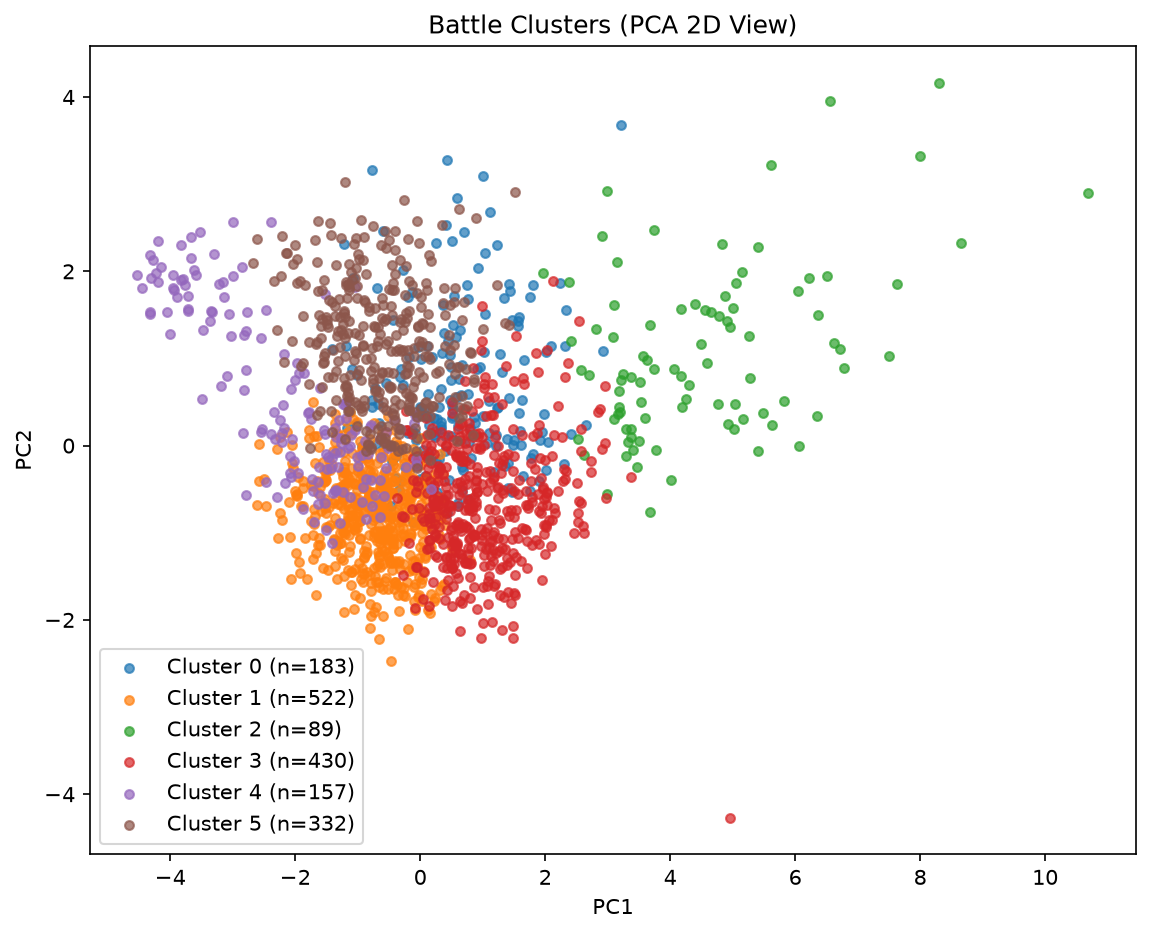
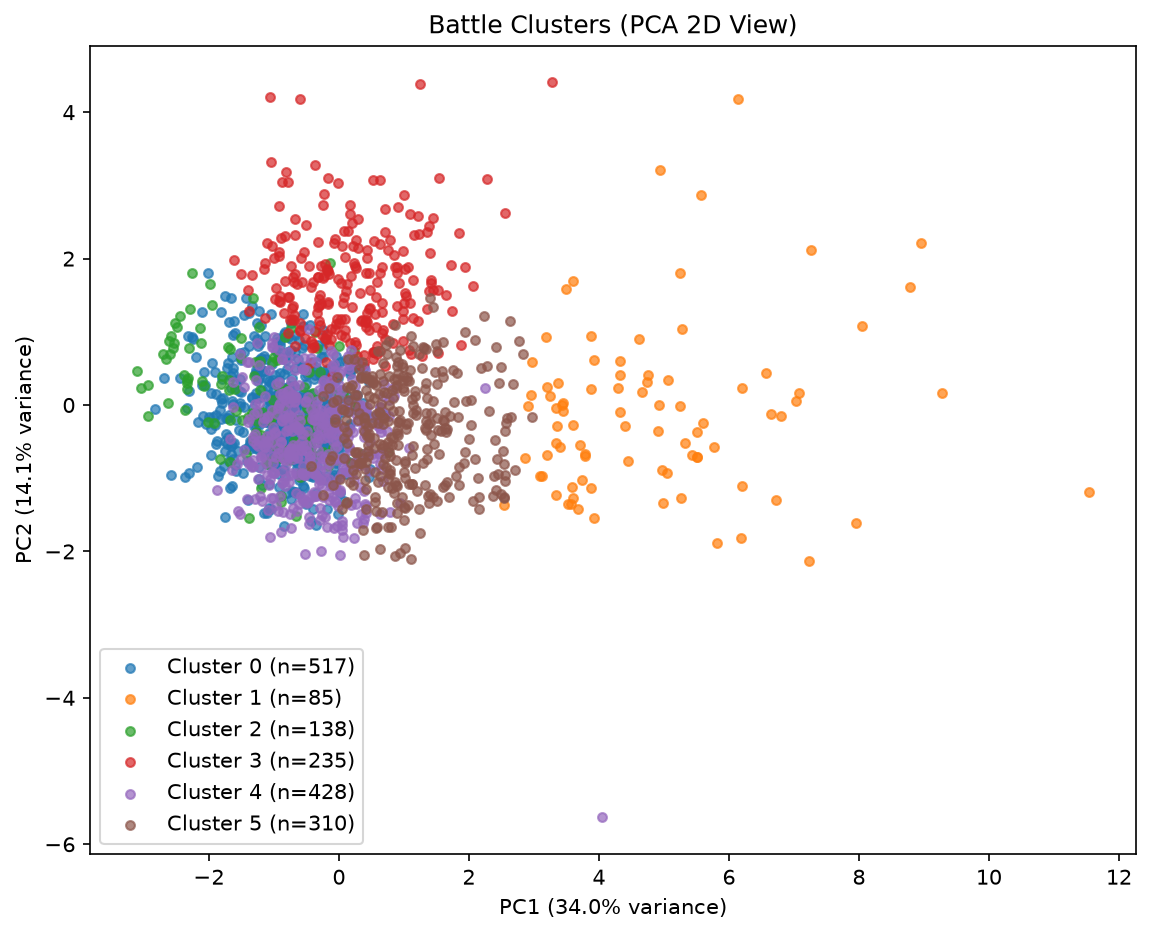
trying to improve while reducing leakage?

diff --git a/src/3_analysis/cluster_profile.py b/src/3_analysis/cluster_profile.py
@@ -10,7 +10,10 @@ PROCESSED = ROOT / "dataset" / "processed"
 
 df = pd.read_csv(PROCESSED / "clustered_battles.csv")
 
-features = df.drop(columns=["episode_id", "winner_p1", "winner_p2", "cluster"])
+features = df.drop(columns=["episode_id", "winner_p1", "winner_p2", "cluster",
+                             "p1_deckCount", "p2_deckCount",
+                             "p1_prizes", "p2_prizes"])
+
 X_scaled = pd.DataFrame(
     RobustScaler().fit_transform(features), columns=features.columns
 )
@@ -32,7 +35,6 @@ ax.set_ylabel(f"PC2 ({pca.explained_variance_ratio_[1]:.1%} variance)")
 ax.set_title("Battle Clusters (PCA 2D View)")
 ax.legend()
 plt.savefig(out_dir / "cluster_scatter.png", dpi=150, bbox_inches="tight")
-plt.show()
 
 # 2) Cluster profile heatmap (mean robust-scaled value per feature)
 profile = X_scaled.groupby("cluster").mean()
@@ -59,3 +61,6 @@ leak.columns = [f"p1_won={c}" for c in leak.columns]
 leak["n"] = sizes
 print(leak)
 plt.show()
+
+print(df['p1_won'].value_counts())
+print(len(df))

diff --git a/src/1_discovery/peek_steps.py b/src/1_discovery/peek_steps.py
@@ -1,0 +1,21 @@
+import json
+from pathlib import Path
+
+ROOT = Path(__file__).resolve().parents[2]
+files = [f for f in (ROOT / "dataset").rglob("*.json")]
+print("JSON files found:", len(files))
+f = files[0]
+print("Using:", f)
+
+data = json.load(open(f, encoding="utf-8"))
+print("Top-level keys:", list(data.keys()) if isinstance(data, dict) else type(data))
+
+steps = data["steps"]
+print("Number of steps:", len(steps))
+
+def short(x, n=1500):
+    return json.dumps(x, indent=1)[:n]
+
+print("\n--- step 0 ---\n", short(steps[0]))
+print("\n--- step 50 ---\n", short(steps[min(50, len(steps) - 1)]))
+print("\n--- last step ---\n", short(steps[-1]))

diff --git a/src/3_analysis/clustering.py b/src/3_analysis/clustering.py
@@ -1,15 +1,17 @@
 import pandas as pd
 from sklearn.cluster import KMeans
 from sklearn.preprocessing import RobustScaler
+from pathlib import Path
 
 N_CLUSTERS = 6
 
 ROOT = Path(__file__).resolve().parents[2]
 PROCESSED = ROOT / "dataset" / "processed"
 
-df = pd.read_csv(PROCESSED / "final_battles.csv"
-                 )
-X = df.drop(columns=["episode_id", "winner_p1", "winner_p2"])
+df = pd.read_csv(PROCESSED / "final_battles.csv")
+X = df.drop(columns=["episode_id", "winner_p1", "winner_p2",
+                      "p1_deckCount", "p2_deckCount",
+                      "p1_prizes", "p2_prizes"])
 
 X_scaled = RobustScaler().fit_transform(X)
 
